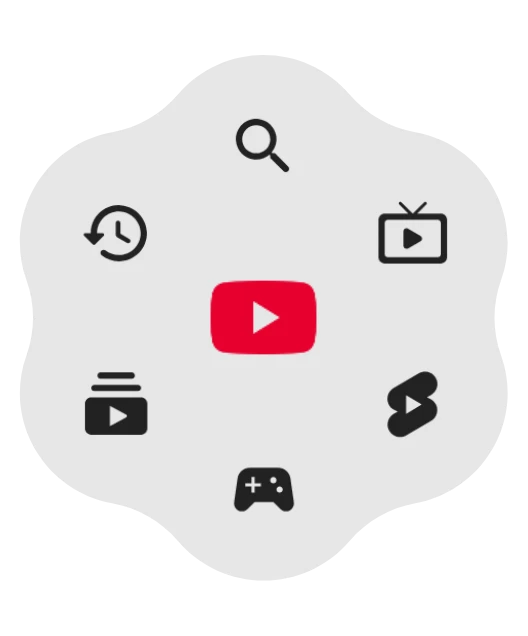
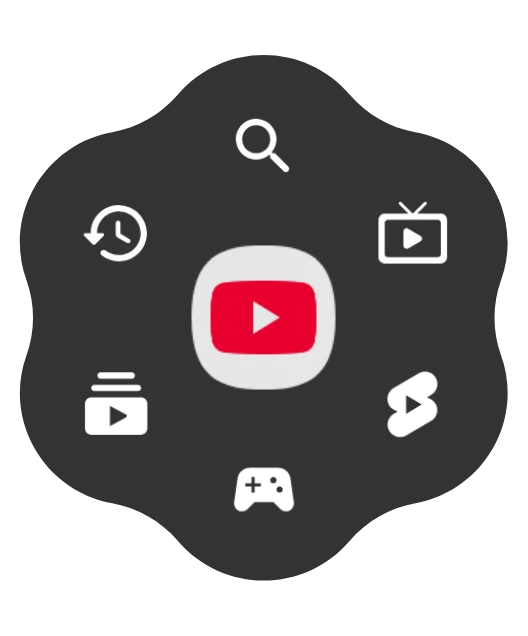
add images

diff --git a/index.html b/index.html
@@ -104,6 +104,7 @@
     "images/tk_2x2.webp",
     "images/tk_c_4.webp",
     "images/wta_material.webp",
+    "images/x_c_b_2x2.webp",
     "images/x_center_4.webp",
     "images/youtube_bottom_3.webp",
     "images/youtube_circle_6.webp",
